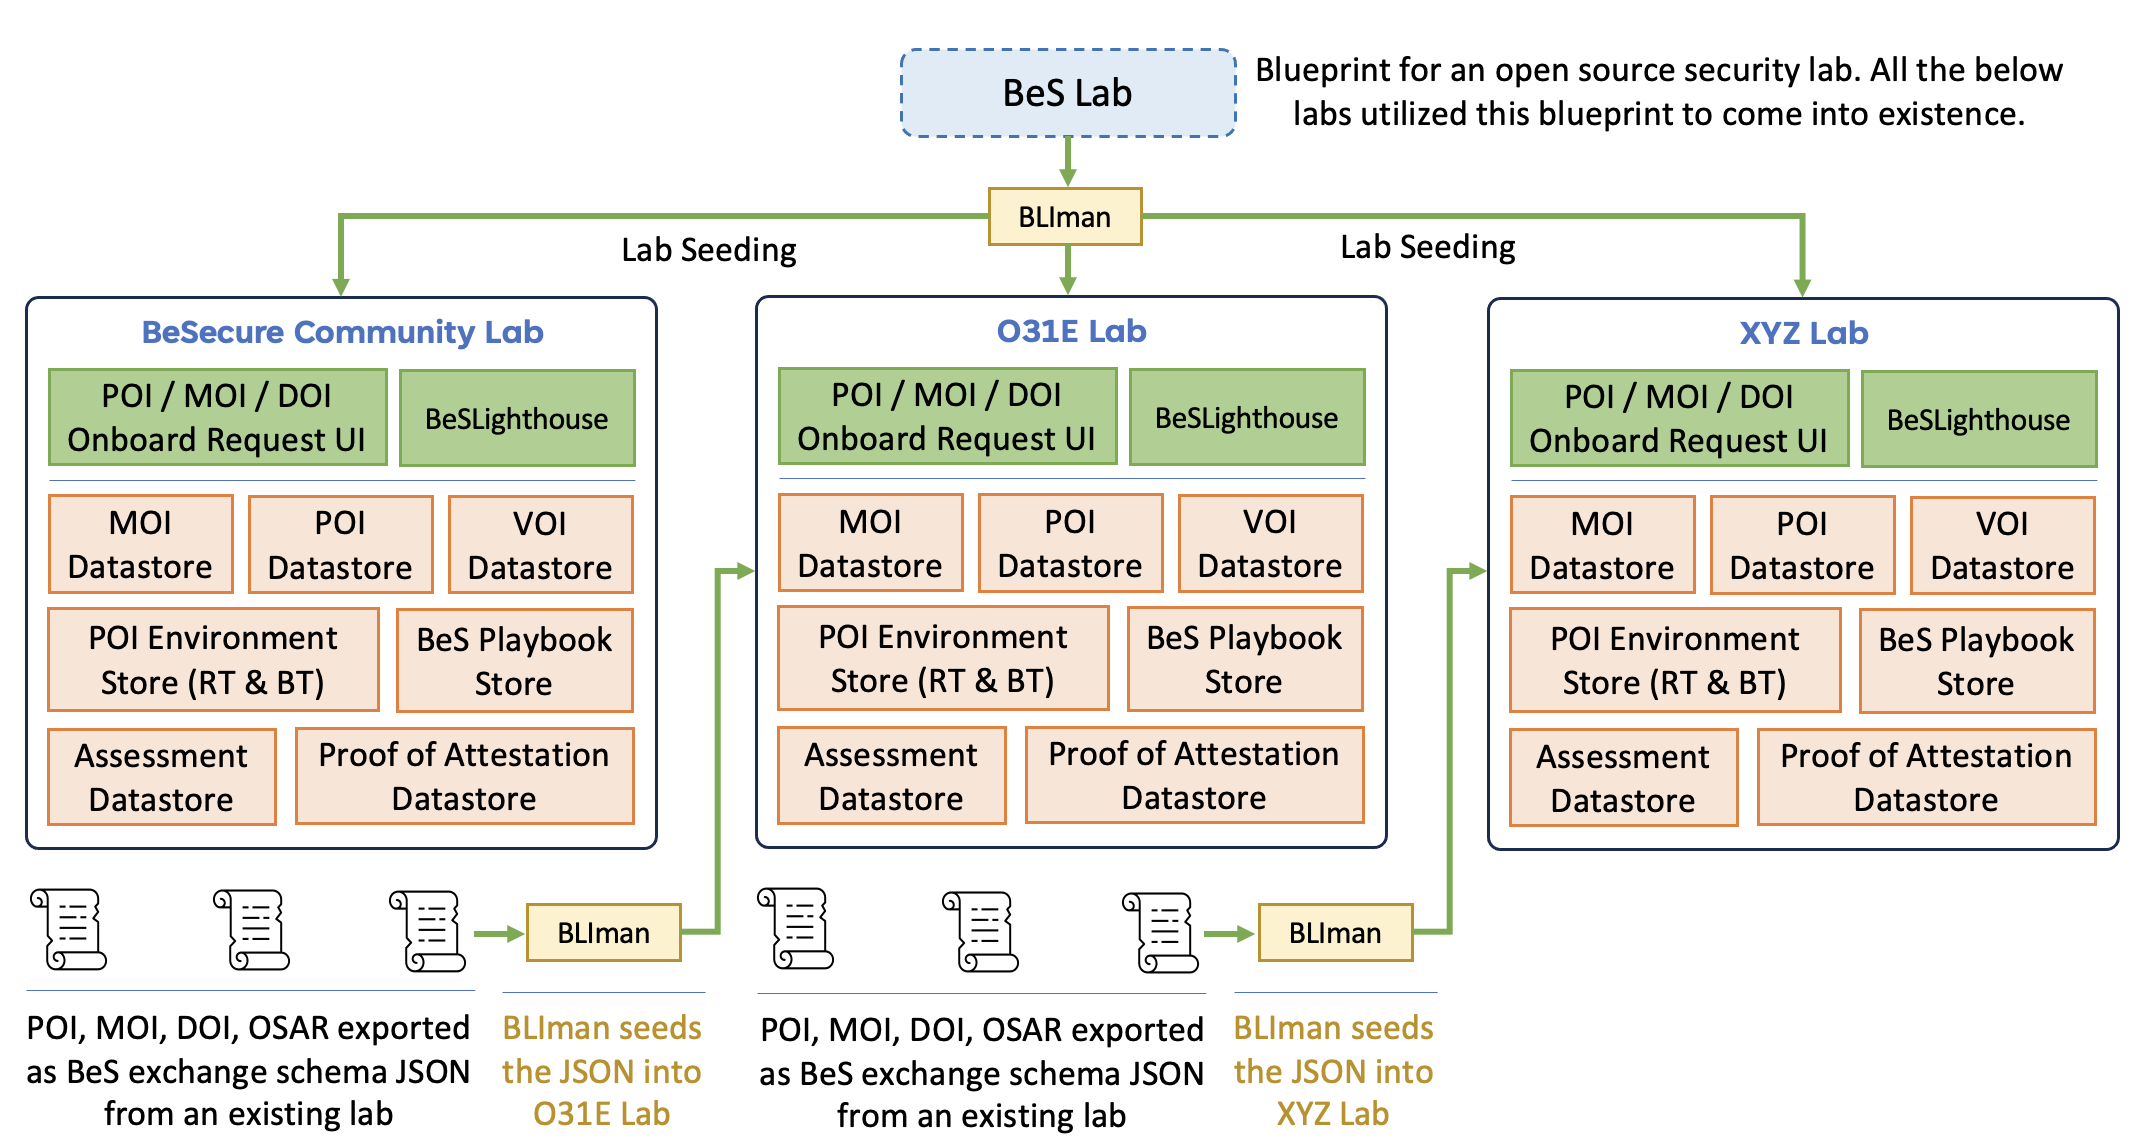
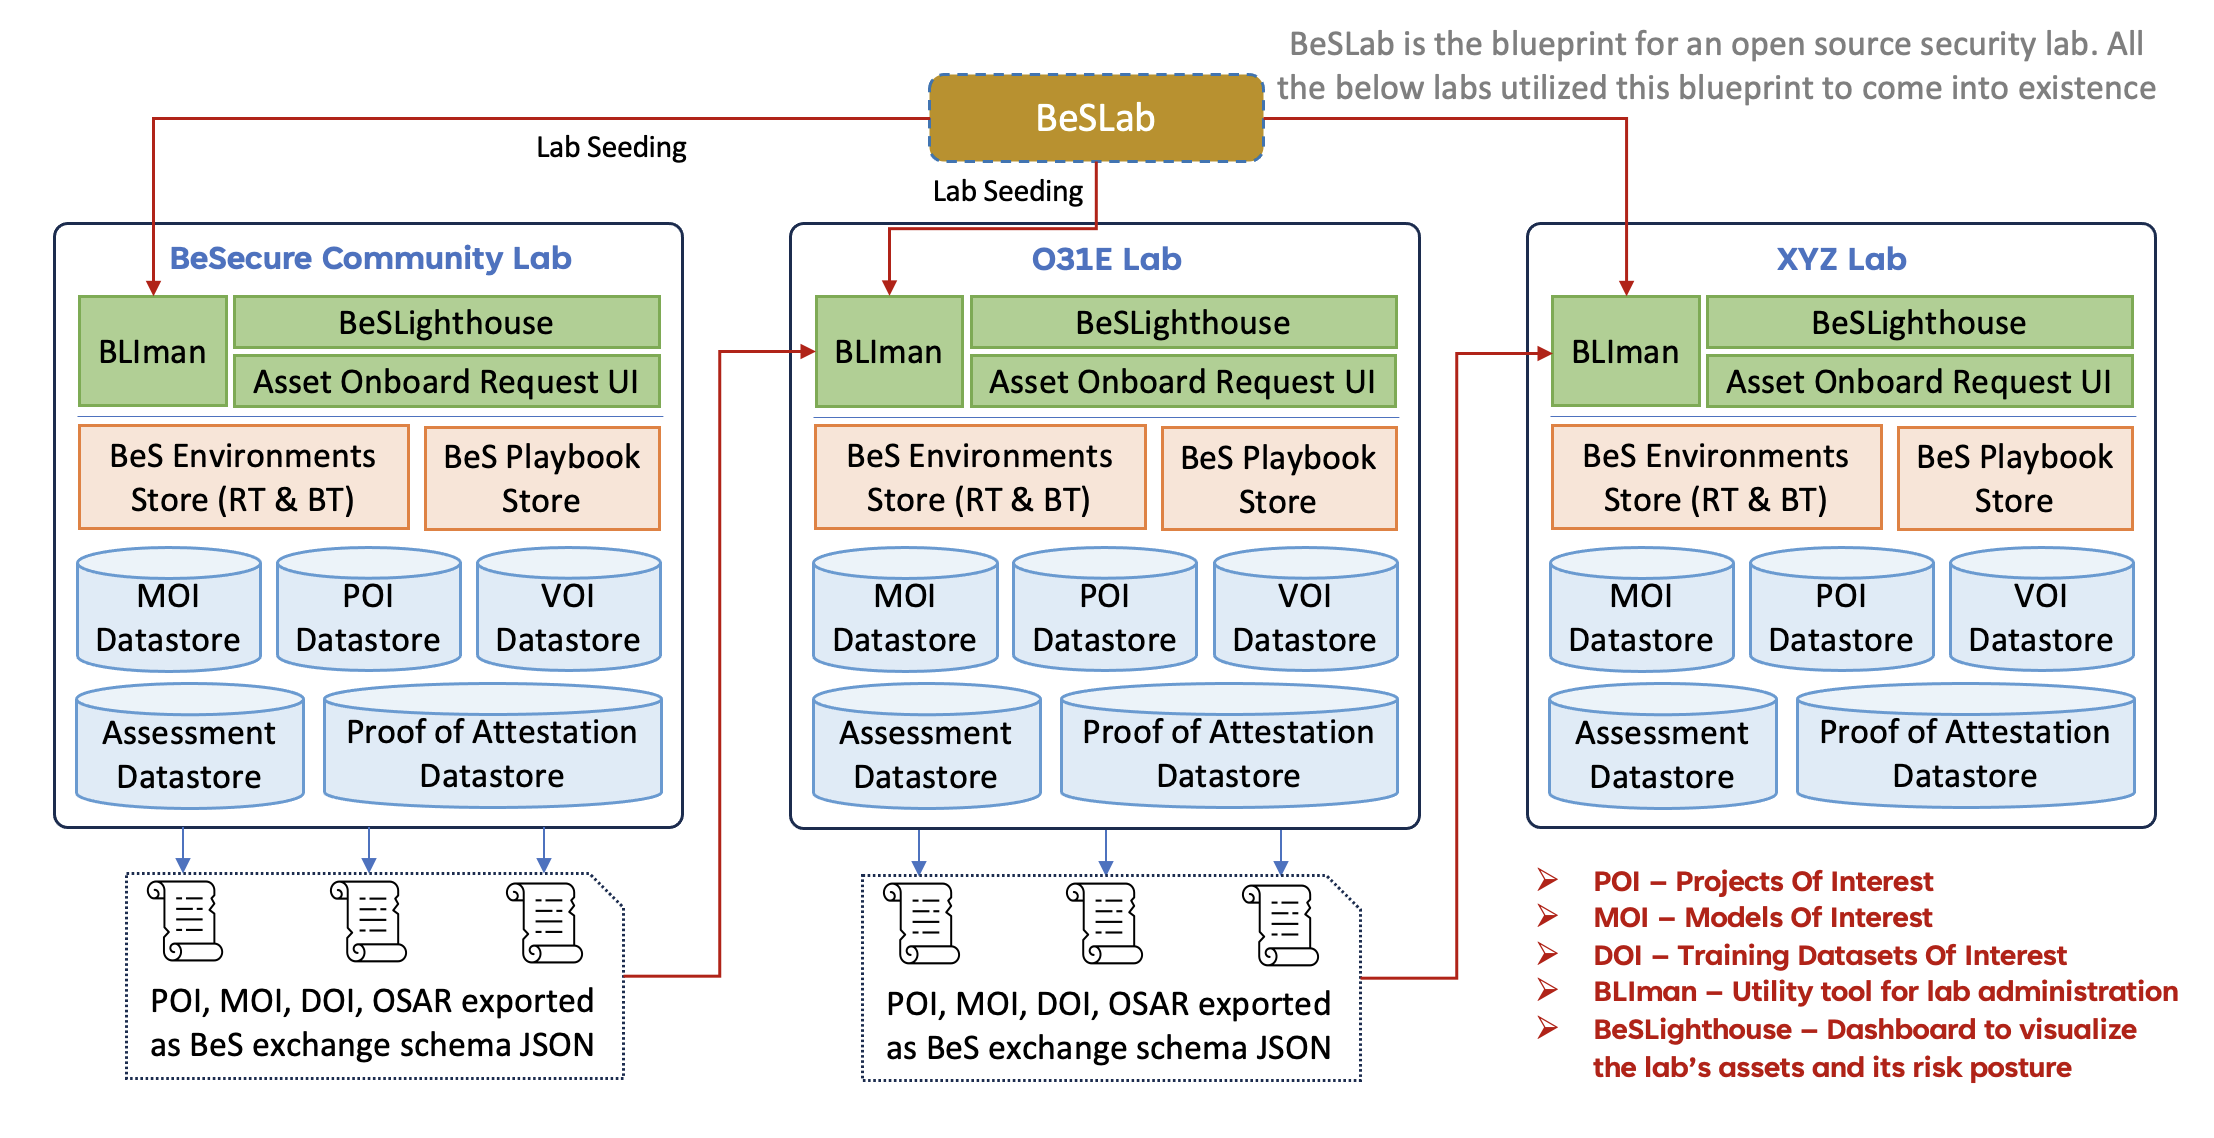
Lab interactions diagram and the readme.md updated (#14)

diff --git a/README.md b/README.md
@@ -1,19 +1,8 @@
-# BeS-Schema
+# BeS-Schema - BeSLab Interchange Schema Definitions
 
-This repository contains the data exchange schema definition for BeS. 
+BeSLab is an open source security lab dedicated to fortifying open source projects against potential vulnerabilities. Designed to operate efficiently even in low-resource settings, BeSLab provides a comprehensive solution that grants complete control and transparency to application security and security operations teams.
 
-BeS(Be-Secure) eco system entities are ..
-
-- Open source projects of interest(OSSPoI) :  
-- Open source vulnerabilities of interest(OSSVoI) :
-- Open source models of Interest (OSMoI) :
-- BeS Environments :
-- BeS Playbooks :
-- Open source Assessment Report (OSAR) :
-- BeS Exploit & Attack Simuation (EAS) :
-- BeSLabs :
-
-# Schema Definitions for the BeS Eco system entities are:
+### Interchange Schema Definitions for BeS Eco System entities.
 - Open Source Software Projects of Interest (OSSPoI)
 - Open Source Software Vulnerabilities of Interest (OSSVoI)
 - Open Source Models of Interest (OSMoI) 
@@ -24,7 +13,29 @@ BeS(Be-Secure) eco system entities are ..
 - BeS Lab Info & Status
 - BeS Lab Attestation History & Record
 
+We hope to define a simple format that all BeS Labs can export,
+to make it easier for users, security researchers, and any other efforts to
+consume all available databases. Use of this format would also make it easier
+for the databases themselves to share or cross-check information. Ultimately,
+this format aims to enable automated, accurate, and distributed management
+of open source asset security information.
 
+### BeS Lab Interactions
 
+![BeS Lab Interactions](./docs/images/lab-interactions.png)
 
+An easy-to-use data format that maps precisely to various data exchange needs between cybersecurity analysts and security labs. These schema definitions address many of the shortcomings of dealing with vulnerabilities in open source software and ML models in Be-Secure ecosystem.
 
+These unified format means that vulnerability databases, open source users, and security researchers can easily share tooling and consume vulnerabilities across all of open source. This means a more complete view of vulnerabilities in open source for everyone, as well as faster detection and remediation times resulting from easier automation.
+
+## Report Issue
+BeS-Schema uses GitHub's integrated issue tracking system to record bugs and feature requests. If you want to raise an issue, please follow the recommendations below:
+
+* Before you log a bug, please search the [issue tracker](https://github.com/Be-Secure/bes-schema/issues) to see if someone has already reported the problem.
+* If the issue doesn't already exist, [create a new issue](https://github.com/Be-Secure/bes-schema/issues/new/choose).
+* Please provide as much information as possible with the issue report.
+We like to know the BeS-Schema version you're using.
+* If possible, try to attach the screenshot of the issue.
+
+## License
+BeS-Schema is an Open Source project released under the [Apache 2.0 license](https://www.apache.org/licenses/LICENSE-2.0.html).
